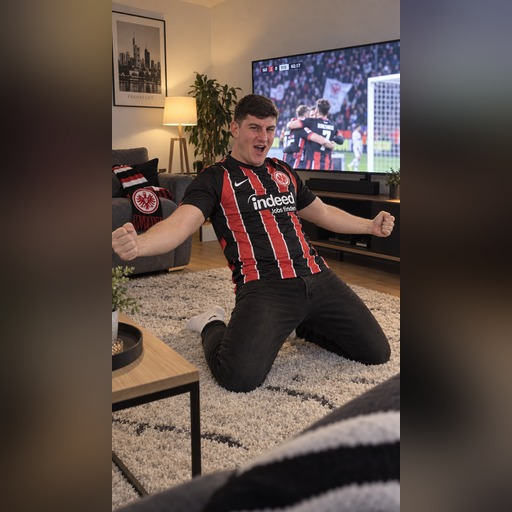
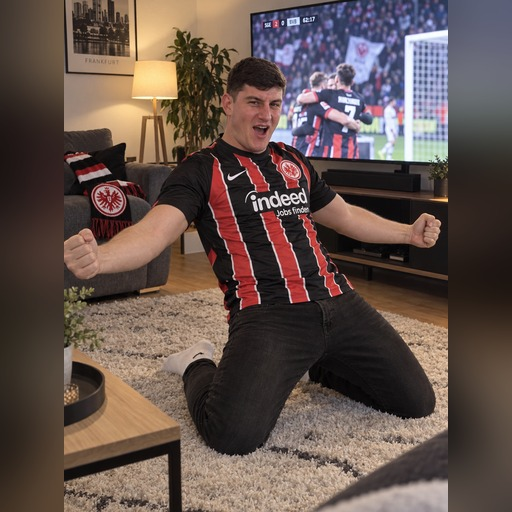
v117: Freunde-Zoom (Eintracht Sinan, Gay Luca) + zufällige Hinweis-Reihenfolge bei Wer ist es?
Zwei Freunde-Fotos enger zugeschnitten (weniger Umgebung bzw. mehr Fokus auf
Kopf/Oberkörper). Bei Wer ist es? werden die 10 Hinweise pro Frage jetzt in
zufälliger statt immer fester schwer-zu-leicht-Reihenfolge gezeigt.

diff --git a/spiele/wer-ist-es/spiel.js b/spiele/wer-ist-es/spiel.js
@@ -2,8 +2,9 @@
 //  Wer ist es?
 // ----------------------------------------------------------------------------
 //  Jeder bekommt nacheinander Hinweise zu einer Person (bisher nur Kategorie
-//  "Fußballer") - vom schwersten zum leichtesten. Wer zuerst buzzert, darf als
-//  Erstes raten. Je weniger Hinweise bis dahin aufgedeckt waren, desto mehr
+//  "Fußballer") - in zufälliger Reihenfolge, bei jeder Frage neu gemischt (v117,
+//  vorher immer fest vom schwersten zum leichtesten). Wer zuerst buzzert, darf
+//  als Erstes raten. Je weniger Hinweise bis dahin aufgedeckt waren, desto mehr
 //  Punkte gibt es für eine richtige Antwort.
 //
 //  Ablauf pro Runde (Felder im Raum-Dokument, alle mit Präfix "wi"):
@@ -32,8 +33,8 @@ const STANDARD_ANZAHL = 8;
 const VORLAGE = `
   <div id="wi-setup" class="bildschirm-karte" hidden>
     <h1>🕵 Wer ist es?</h1>
-    <p class="hinweis-text">Ihr bekommt nacheinander Hinweise zu einem Fußballer - vom
-      schwersten zum leichtesten. Wer zuerst buzzert, darf raten. Je weniger Hinweise
+    <p class="hinweis-text">Ihr bekommt nacheinander Hinweise zu einem Fußballer - in
+      zufälliger Reihenfolge. Wer zuerst buzzert, darf raten. Je weniger Hinweise
       es bis dahin gab, desto mehr Punkte gibt es.</p>
 
     <div id="wi-anzahl-zeile" class="setup-anzahlblock" hidden>
@@ -131,6 +132,10 @@ let spielerListe = [];
 
 let index = -1;
 let reihenfolge = [];
+// v117: pro Frage eine eigene, zufällige Hinweis-Reihenfolge (statt immer
+// fest vom schwersten zum leichtesten) - ein Array parallel zu "reihenfolge",
+// jeder Eintrag ist eine Permutation der Hinweis-Indizes dieser Frage.
+let hinweisReihenfolgen = [];
 let anzahlFragen = 0;
 let status = null;
 let hinweisIndex = 1;
@@ -149,6 +154,13 @@ const $ = (id) => el.wurzel.querySelector("#" + id);
 
 function frageAn(pos) {
   return fragen[reihenfolge[pos]];
+}
+
+// v117: liefert die Hinweis-Reihenfolge für die Frage an Position "pos" - eine
+// Permutation der Hinweis-Indizes. Fällt auf die unveränderte Reihenfolge
+// zurück, falls (noch) keine gespeichert ist.
+function hinweisPermutation(pos) {
+  return hinweisReihenfolgen[pos] ?? frageAn(pos)?.hinweise.map((_, i) => i) ?? [];
 }
 
 function mischeIndizes(werte) {
@@ -267,7 +279,7 @@ function verdrahteBedienelemente() {
 export function beenden() {
   if (timerId) { clearInterval(timerId); timerId = null; }
   el = {}; raum = {}; spielerListe = [];
-  index = -1; reihenfolge = []; anzahlFragen = 0; status = null;
+  index = -1; reihenfolge = []; hinweisReihenfolgen = []; anzahlFragen = 0; status = null;
   hinweisIndex = 1; hinweisSeit = 0; gebuzzertVon = null;
   antwortText = ""; antwortKorrekt = null; falscheVersuche = []; gewuenschteAnzahl = 0;
   hinweisFortschreibenLaeuft = false;
@@ -291,6 +303,7 @@ export function raumDaten(daten) {
   raum = daten;
   status = daten.wiStatus ?? null;
   reihenfolge = daten.wiReihenfolge ?? [];
+  hinweisReihenfolgen = daten.wiHinweisReihenfolgen ?? [];
   anzahlFragen = daten.wiAnzahlFragen ?? 0;
   hinweisIndex = daten.wiHinweisIndex ?? 1;
   hinweisSeit = daten.wiHinweisSeit ?? 0;
@@ -429,7 +442,7 @@ function anzahlUebernehmen() {
 
 async function setzeGrundzustand(wiStatus) {
   await updateDoc(api.raumRef(), {
-    wiStatus, wiReihenfolge: [], wiFragenIndex: 0, wiAnzahlFragen: 0,
+    wiStatus, wiReihenfolge: [], wiHinweisReihenfolgen: [], wiFragenIndex: 0, wiAnzahlFragen: 0,
     wiHinweisIndex: 1, wiHinweisSeit: 0, wiGebuzzertVon: null,
     wiAntwortText: "", wiAntwortKorrekt: null, wiPunkteDieserRunde: 0,
     wiFalscheVersuche: [], wiTeammodus: false, wiTeams: {}, wiRundenDelta: {}
@@ -452,12 +465,18 @@ async function spielStarten() {
     await raeumeSpieldatenAuf();
     const anzahl = Math.min(gewuenschteAnzahl || fragen.length, fragen.length);
     const neueReihenfolge = mischeIndizes(fragen.map((_, i) => i)).slice(0, anzahl);
+    // v117: für jede Frage eine eigene, zufällige Hinweis-Reihenfolge - nicht
+    // mehr immer die feste Autoren-Reihenfolge (schwer -> leicht).
+    const neueHinweisReihenfolgen = neueReihenfolge.map((frageIndex) =>
+      mischeIndizes(fragen[frageIndex].hinweise.map((_, i) => i))
+    );
     const neueTeams = teammodus
       ? ergaenzeFehlendeTeams(teams, spielerListe.map((spieler) => spieler.id))
       : teams;
     await updateDoc(api.raumRef(), {
       wiStatus: "frage_aktiv", wiFragenIndex: 0, wiAnzahlFragen: anzahl,
-      wiReihenfolge: neueReihenfolge, wiHinweisIndex: 1, wiHinweisSeit: Date.now(),
+      wiReihenfolge: neueReihenfolge, wiHinweisReihenfolgen: neueHinweisReihenfolgen,
+      wiHinweisIndex: 1, wiHinweisSeit: Date.now(),
       wiGebuzzertVon: null, wiAntwortText: "", wiAntwortKorrekt: null, wiPunkteDieserRunde: 0,
       wiFalscheVersuche: [], wiTeammodus: teammodus, wiTeams: neueTeams, wiRundenDelta: {}
     });
@@ -486,14 +505,15 @@ function zeigeFrage() {
   // dieser Stelle zeigen wir stattdessen, der wievielte Hinweis gerade dran ist.
   const gesamt = frage.hinweise.length;
   const sichtbar = Math.min(Math.max(hinweisIndex, 1), gesamt);
+  const perm = hinweisPermutation(index);
   $("wi-frage-fortschritt").textContent = `Hinweis ${sichtbar} von ${gesamt}`;
-  $("wi-hinweis-aktuell").textContent = frage.hinweise[sichtbar - 1] ?? "";
+  $("wi-hinweis-aktuell").textContent = frage.hinweise[perm[sichtbar - 1] ?? sichtbar - 1] ?? "";
 
   const liste = $("wi-hinweis-liste");
   liste.innerHTML = "";
   for (let i = 0; i < sichtbar - 1; i++) {
     const li = document.createElement("li");
-    li.textContent = frage.hinweise[i];
+    li.textContent = frage.hinweise[perm[i] ?? i];
     liste.appendChild(li);
   }
 

diff --git a/kern/ui.js b/kern/ui.js
@@ -32,18 +32,18 @@ export const AVATARE = [
 // "nachname" trägt hier die Rolle (groß dargestellt), "vorname" den Namen
 // (klein dargestellt) - dieselbe Beschriftungslogik wie bei den Fußballern.
 export const FREUNDE = [
-  { id: "freund-rapper-kevin",       bild: "bilder/freund-rapper-kevin.jpg?v=116",       vorname: "Kevin", nachname: "Rapper" },
-  { id: "freund-zocker-luca",        bild: "bilder/freund-zocker-luca.jpg?v=116",        vorname: "Luca",  nachname: "Zocker" },
-  { id: "freund-bettler-nader",      bild: "bilder/freund-bettler-nader.jpg?v=116",      vorname: "Nader", nachname: "Bettler" },
-  { id: "freund-eintracht-sinan",    bild: "bilder/freund-eintracht-sinan.jpg?v=116",    vorname: "Sinan", nachname: "Eintracht" },
-  { id: "freund-boxer-kevin",        bild: "bilder/freund-boxer-kevin.jpg?v=116",        vorname: "Kevin", nachname: "Boxer" },
-  { id: "freund-gay-luca",           bild: "bilder/freund-gay-luca.jpg?v=116",           vorname: "Luca",  nachname: "Gay" },
-  { id: "freund-diktator-nader",     bild: "bilder/freund-diktator-nader.jpg?v=116",     vorname: "Nader", nachname: "Diktator" },
-  { id: "freund-rambo-sinan",        bild: "bilder/freund-rambo-sinan.jpg?v=116",        vorname: "Sinan", nachname: "Rambo" },
-  { id: "freund-meerjungfrau-kevin", bild: "bilder/freund-meerjungfrau-kevin.jpg?v=116", vorname: "Kevin", nachname: "Meerjungfrau" },
-  { id: "freund-baywatch-luca",      bild: "bilder/freund-baywatch-luca.jpg?v=116",      vorname: "Luca",  nachname: "Baywatch" },
-  { id: "freund-baby-nader",         bild: "bilder/freund-baby-nader.jpg?v=116",         vorname: "Nader", nachname: "Baby" },
-  { id: "freund-leoparden-sinan",    bild: "bilder/freund-leoparden-sinan.jpg?v=116",    vorname: "Sinan", nachname: "Leoparden" }
+  { id: "freund-rapper-kevin",       bild: "bilder/freund-rapper-kevin.jpg?v=117",       vorname: "Kevin", nachname: "Rapper" },
+  { id: "freund-zocker-luca",        bild: "bilder/freund-zocker-luca.jpg?v=117",        vorname: "Luca",  nachname: "Zocker" },
+  { id: "freund-bettler-nader",      bild: "bilder/freund-bettler-nader.jpg?v=117",      vorname: "Nader", nachname: "Bettler" },
+  { id: "freund-eintracht-sinan",    bild: "bilder/freund-eintracht-sinan.jpg?v=117",    vorname: "Sinan", nachname: "Eintracht" },
+  { id: "freund-boxer-kevin",        bild: "bilder/freund-boxer-kevin.jpg?v=117",        vorname: "Kevin", nachname: "Boxer" },
+  { id: "freund-gay-luca",           bild: "bilder/freund-gay-luca.jpg?v=117",           vorname: "Luca",  nachname: "Gay" },
+  { id: "freund-diktator-nader",     bild: "bilder/freund-diktator-nader.jpg?v=117",     vorname: "Nader", nachname: "Diktator" },
+  { id: "freund-rambo-sinan",        bild: "bilder/freund-rambo-sinan.jpg?v=117",        vorname: "Sinan", nachname: "Rambo" },
+  { id: "freund-meerjungfrau-kevin", bild: "bilder/freund-meerjungfrau-kevin.jpg?v=117", vorname: "Kevin", nachname: "Meerjungfrau" },
+  { id: "freund-baywatch-luca",      bild: "bilder/freund-baywatch-luca.jpg?v=117",      vorname: "Luca",  nachname: "Baywatch" },
+  { id: "freund-baby-nader",         bild: "bilder/freund-baby-nader.jpg?v=117",         vorname: "Nader", nachname: "Baby" },
+  { id: "freund-leoparden-sinan",    bild: "bilder/freund-leoparden-sinan.jpg?v=117",    vorname: "Sinan", nachname: "Leoparden" }
 ];
 
 // Kombinierte Liste für Nachschlagen (z. B. in der Lobby, im laufenden Spiel,

diff --git a/app.js b/app.js
@@ -9,7 +9,7 @@ import {
 } from "./kern/ui.js";
 import { SPIELE, spielInfo } from "./spiele/register.js";
 
-export const APP_VERSION = "v116";
+export const APP_VERSION = "v117";
 const appVersion = document.getElementById("app-version");
 appVersion.textContent = "Version " + APP_VERSION;
 
@@ -143,7 +143,7 @@ function raumSignatur(daten) {
 
 // ---------- Vollbild-Profilwahl (Farbe + Profilbild) ----------
 const profilEntwurf = { farbe: zustand.farbe, icon: zustand.icon };
-// v116: zweite Bilder-Kategorie ("Freunde") neben den Fußballern - beide
+// v117: zweite Bilder-Kategorie ("Freunde") neben den Fußballern - beide
 // Kategorien bleiben bestehen, man kann zwischen ihnen hin- und herwechseln.
 let profilKategorie = "fussballer";
 
@@ -239,7 +239,7 @@ function renderFarbKarussell() {
 }
 
 function renderIconKarussell() {
-  // v116: bei "Freunde" steht die Rolle (groß) über dem Namen (klein) - bei
+  // v117: bei "Freunde" steht die Rolle (groß) über dem Namen (klein) - bei
   // "Fußballer" bleibt es wie bisher Vorname (klein) über Nachname (groß).
   profilSpielername.classList.toggle("freunde-modus", profilKategorie === "freunde");
   const optionen = freieOptionen(aktuelleAvatarQuelle(), "icon", "id");
@@ -286,7 +286,7 @@ function renderProfilAuswahl() {
   btnProfilAuswaehlen.disabled = !profilEntwurf.farbe || !profilEntwurf.icon;
 }
 
-// v116: Umschalten zwischen den Bilder-Kategorien "Fußballer" und "Freunde".
+// v117: Umschalten zwischen den Bilder-Kategorien "Fußballer" und "Freunde".
 // Beim Wechseln wird das aktuell gewählte Bild zurückgesetzt, damit man nicht
 // versehentlich ein Bild der anderen Kategorie "mitschleppt".
 function setzeKategorie(kategorie) {
@@ -329,7 +329,7 @@ function zeigeProfilAuswahl() {
     profilEntwurf.farbe = zustand.farbe;
     profilEntwurf.icon = zustand.icon;
     avatarHinweis.textContent = "";
-    // v116: Kategorie passend zum bereits gewählten Bild vorauswählen (falls
+    // v117: Kategorie passend zum bereits gewählten Bild vorauswählen (falls
     // vorhanden), sonst Standard "Fußballer".
     const istFreund = FREUNDE.some((f) => f.id === zustand.icon);
     profilKategorie = istFreund ? "freunde" : "fussballer";

diff --git a/sw.js b/sw.js
@@ -1,10 +1,10 @@
 // Service Worker: macht die App installierbar und offline startfähig.
 //
-// WICHTIG bei Änderungen: die Zahl in CACHE_NAME hochzählen (z. B. v106 -> v116).
+// WICHTIG bei Änderungen: die Zahl in CACHE_NAME hochzählen (z. B. v106 -> v117).
 // Nur dann wirft der Browser den alten Zwischenspeicher weg und alle Spieler
 // bekommen zuverlässig die neue Version. Das ist der einzige Handgriff, den man
 // nach dem Bearbeiten von Dateien nicht vergessen darf.
-const CACHE_NAME = "partyspiele-v116";
+const CACHE_NAME = "partyspiele-v117";
 
 const DATEIEN = [
   "./",
@@ -37,10 +37,10 @@ const DATEIEN = [
   "bilder/icon-raum-verlassen.svg",
   "bilder/avatar1-hd.jpg?v=38", "bilder/avatar2-hd.jpg?v=38", "bilder/avatar3-hd.jpg?v=38", "bilder/avatar4-hd.jpg?v=38",
   "bilder/avatar5-hd.jpg?v=38", "bilder/avatar6-hd.jpg?v=38", "bilder/avatar7-hd.jpg?v=38", "bilder/avatar8-hd.jpg?v=38",
-  "bilder/freund-rapper-kevin.jpg?v=116", "bilder/freund-zocker-luca.jpg?v=116", "bilder/freund-bettler-nader.jpg?v=116",
-  "bilder/freund-eintracht-sinan.jpg?v=116", "bilder/freund-boxer-kevin.jpg?v=116", "bilder/freund-gay-luca.jpg?v=116",
-  "bilder/freund-diktator-nader.jpg?v=116", "bilder/freund-rambo-sinan.jpg?v=116", "bilder/freund-meerjungfrau-kevin.jpg?v=116",
-  "bilder/freund-baywatch-luca.jpg?v=116", "bilder/freund-baby-nader.jpg?v=116", "bilder/freund-leoparden-sinan.jpg?v=116"
+  "bilder/freund-rapper-kevin.jpg?v=117", "bilder/freund-zocker-luca.jpg?v=117", "bilder/freund-bettler-nader.jpg?v=117",
+  "bilder/freund-eintracht-sinan.jpg?v=117", "bilder/freund-boxer-kevin.jpg?v=117", "bilder/freund-gay-luca.jpg?v=117",
+  "bilder/freund-diktator-nader.jpg?v=117", "bilder/freund-rambo-sinan.jpg?v=117", "bilder/freund-meerjungfrau-kevin.jpg?v=117",
+  "bilder/freund-baywatch-luca.jpg?v=117", "bilder/freund-baby-nader.jpg?v=117", "bilder/freund-leoparden-sinan.jpg?v=117"
 ];
 
 self.addEventListener("install", (event) => {
